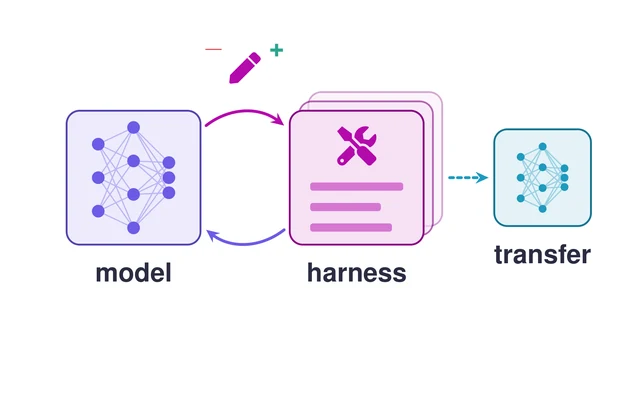
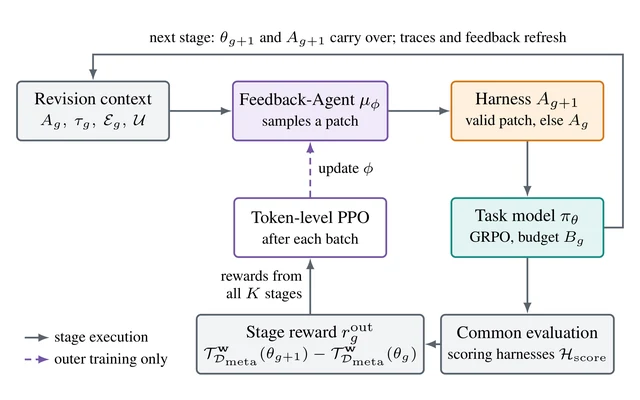
Use the paper's TAME overview, re-laid out, as its thumbnail
Replace the title-based TikZ stand-in with Figure 2 of the TAME ICLR
paper. The original is about 3.8:1, so the TikZ (adapted from the paper
source, same nodes, labels, arrow styles, colors and fonts) is arranged
in three columns, with the stage loop running down the right and the
PPO update running up the middle, so it fills the 16:10 frame.

diff --git a/images/publications/tikz/tame.tex b/images/publications/tikz/tame.tex
@@ -1,42 +1,53 @@
 % TAME: Transfer-Aware Model-Harness Co-Evolution through Learned Harness Revisions
-% A model and its harness co-evolve through learned revisions; the revised harness transfers to a new model.
-\documentclass[tikz,border=0pt]{standalone}
-\input{thumbstyle}
-\newcommand{\mininet}[3]{% center x, center y, color
-  \foreach \ya in {-0.9,0,0.9} \foreach \yb in {-1.35,-0.45,0.45,1.35} {
-    \draw[#3!45, line width=0.9pt] ({#1-0.95},{#2+\ya}) -- ({#1},{#2+\yb});
-    \draw[#3!45, line width=0.9pt] ({#1},{#2+\yb}) -- ({#1+0.95},{#2+0.45*\ya});
-  }
-  \foreach \ya in {-0.9,0,0.9} \fill[#3] ({#1-0.95},{#2+\ya}) circle (0.17);
-  \foreach \yb in {-1.35,-0.45,0.45,1.35} \fill[#3] ({#1},{#2+\yb}) circle (0.17);
-  \foreach \ya in {-0.9,0,0.9} \fill[#3] ({#1+0.95},{#2+0.45*\ya}) circle (0.17);
-}
+% Figure 2 (Overview of TAME) of the paper, re-laid out into three columns so it fills a 16:10
+% thumbnail. Adapted from the paper source (tame_iclr2027.tex): same nodes, labels, arrow styles,
+% colors and fonts.
+\documentclass[tikz,border=1pt]{standalone}
+\usepackage{times}
+\usepackage{amsmath,amssymb}
+\usetikzlibrary{arrows.meta,calc,positioning}
+\definecolor{tameteal}{HTML}{178A83}
+\definecolor{tametealfill}{HTML}{E2F5F2}
+\definecolor{tameorange}{HTML}{D47A1F}
+\definecolor{tameorangefill}{HTML}{FFF0DD}
+\definecolor{tamepurple}{HTML}{7556A5}
+\definecolor{tamepurplefill}{HTML}{F0E9FA}
+\definecolor{tamegray}{HTML}{59636E}
+\definecolor{tamegrayfill}{HTML}{F2F4F6}
+\newcommand{\MetaTrain}{\mathcal D_{\mathrm{meta}}}
+\newcommand{\Tscore}{\mathcal T}
+\newcommand{\Escore}{\mathcal H_{\mathrm{score}}}
+\tikzset{flow/.style={-{Latex[length=1.8mm]},thick,draw=tamegray}}
 \begin{document}
-\begin{tikzpicture}
-\thumbcanvas
-% Model.
-\draw[card=violet] (1.2,3.8) rectangle (4.8,7.4);
-\mininet{3.0}{5.6}{violet}
-\node[text=ink] at (3.0,3.05) {\lbl{model}};
-% Harness with earlier revisions stacked behind.
-\draw[card=accent, opacity=0.35] (7.7,4.3) rectangle (11.3,7.9);
-\draw[card=accent, opacity=0.6] (7.45,4.05) rectangle (11.05,7.65);
-\draw[card=accent] (7.2,3.8) rectangle (10.8,7.4);
-\node[text=accent] at (9.0,6.45) {\icon[30]{tools}};
-\foreach \y/\w in {5.25/2.5,4.7/1.9,4.15/2.2} \fill[accent!55, rounded corners=2pt] (7.75,\y) rectangle ++(\w,0.22);
-\node[text=ink] at (9.0,3.05) {\lbl{harness}};
-% Co-evolution loop with learned revisions.
-\draw[arrow=accent] (4.95,7.0) to[bend left=38] (7.05,7.0);
-\draw[arrow=violet] (7.05,4.2) to[bend left=38] (4.95,4.2);
-\node[text=accent] at (6.0,8.55) {\icon[24]{pen}};
-\node[text=leaf] at (6.85,9.05) {\lbl{+}};
-\node[text=alert] at (5.15,9.05) {\lbl{$-$}};
-% Transfer to a new model.
-\draw[arrow=teal, dashed] (11.5,5.6) -- (12.55,5.6);
-\draw[card=teal] (12.7,4.3) rectangle (15.3,6.9);
-\begin{scope}[shift={(14.0,5.6)}, scale=0.62]
-  \mininet{0}{0}{teal}
-\end{scope}
-\node[text=ink] at (14.0,3.55) {\lbl{transfer}};
+\begin{tikzpicture}[
+  stage/.style={draw=tamegray,fill=tamegrayfill,rounded corners=2pt,thick,align=center,
+    inner sep=3pt,font=\footnotesize,minimum width=2.45cm,minimum height=0.95cm},
+  sub/.style={font=\scriptsize},
+  update/.style={-{Latex[length=1.8mm]},thick,draw=tamepurple,densely dashed}]
+% Row 1: revision context -> Feedback-Agent -> harness.
+\node[stage] (ctx) {Revision context\\{\scriptsize$A_g,\ \tau_g,\ \mathcal E_g,\ \mathcal U$}};
+\node[stage,draw=tamepurple,fill=tamepurplefill,right=1.0cm of ctx] (fa) {Feedback-Agent $\mu_\phi$\\{\scriptsize samples a patch}};
+\node[stage,draw=tameorange,fill=tameorangefill,right=1.0cm of fa] (h) {Harness $A_{g+1}$\\{\scriptsize valid patch, else $A_g$}};
+% Right column going down: task model -> common evaluation.
+\node[stage,draw=tameteal,fill=tametealfill,below=0.9cm of h] (tm) {Task model $\pi_\theta$\\{\scriptsize GRPO, budget $B_g$}};
+\node[stage,below=0.9cm of tm] (ev) {Common evaluation\\{\scriptsize scoring harnesses $\Escore$}};
+% Middle column going up: stage reward -> token-level PPO -> Feedback-Agent.
+\node[stage] (rw) at (fa |- ev)
+  {Stage reward $r_g^{\mathrm{out}}$\\{\scriptsize$\Tscore_{\MetaTrain}^{\mathbf w}(\theta_{g+1})-\Tscore_{\MetaTrain}^{\mathbf w}(\theta_g)$}};
+\node[stage,draw=tamepurple,fill=white] (ppo) at (fa |- tm) {Token-level PPO\\{\scriptsize after each batch}};
+\draw[flow] (ctx) -- (fa);
+\draw[flow] (fa) -- (h);
+\draw[flow] (h) -- (tm);
+\draw[flow] (tm) -- (ev);
+\draw[flow] (ev) -- (rw);
+\draw[flow] (rw) -- node[left,sub,align=right] {rewards from\\all $K$ stages} (ppo);
+\draw[update] (ppo) -- node[right,sub] {update $\phi$} (fa);
+% Next stage: loop from the task model back to the revision context over the top.
+\draw[flow] (tm.east) -- ++(0.3,0) |- ($(ctx.north)+(0,0.42)$) node[pos=0.75,above,sub,align=center]
+  {next stage: $\theta_{g+1}$ and $A_{g+1}$ carry over; traces and feedback refresh} -- (ctx.north);
+% Legend.
+\node[sub,align=left,anchor=south west] at (ctx.west |- ev.south)
+  {\tikz[baseline=-0.6ex]\draw[flow] (0,0) -- (0.4,0);\ stage execution\\[2pt]
+   \tikz[baseline=-0.6ex]\draw[update] (0,0) -- (0.4,0);\ outer training only};
 \end{tikzpicture}
 \end{document}
